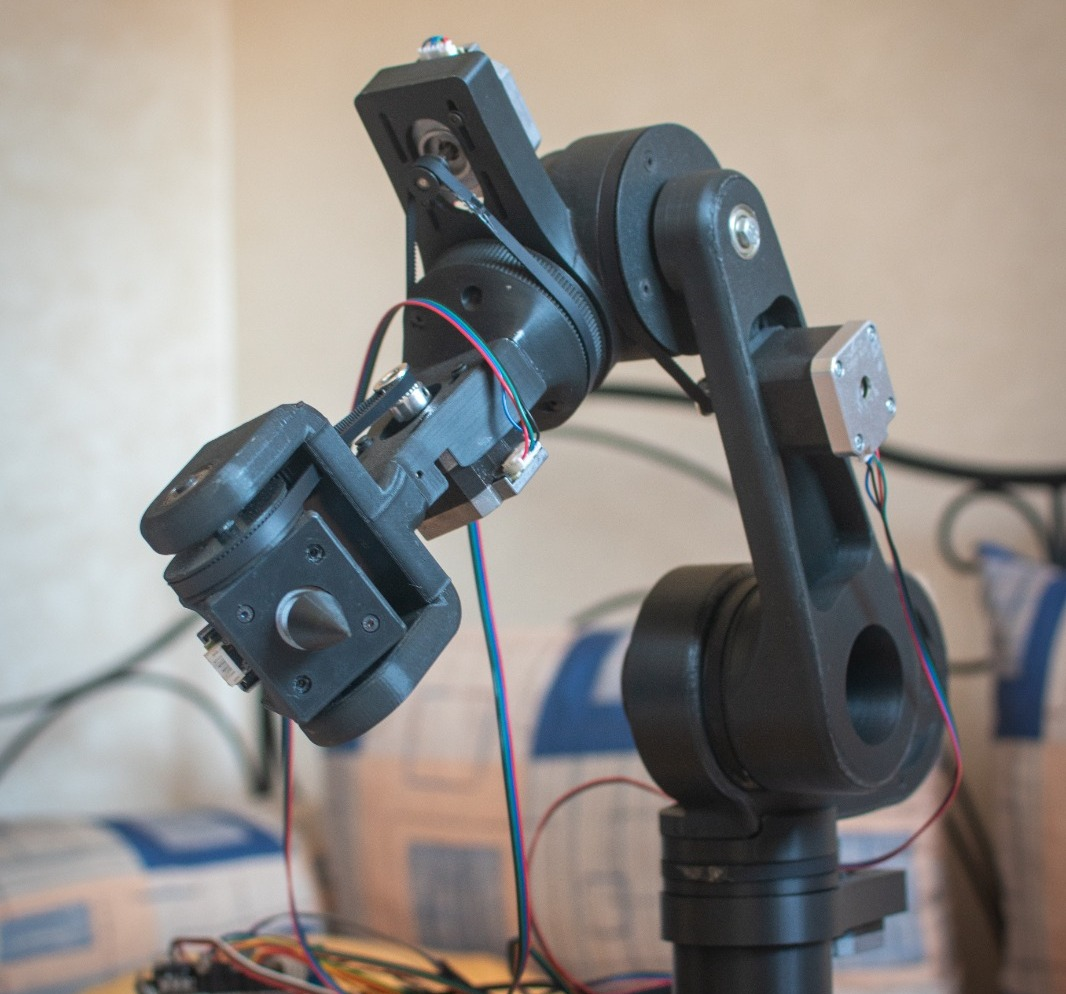
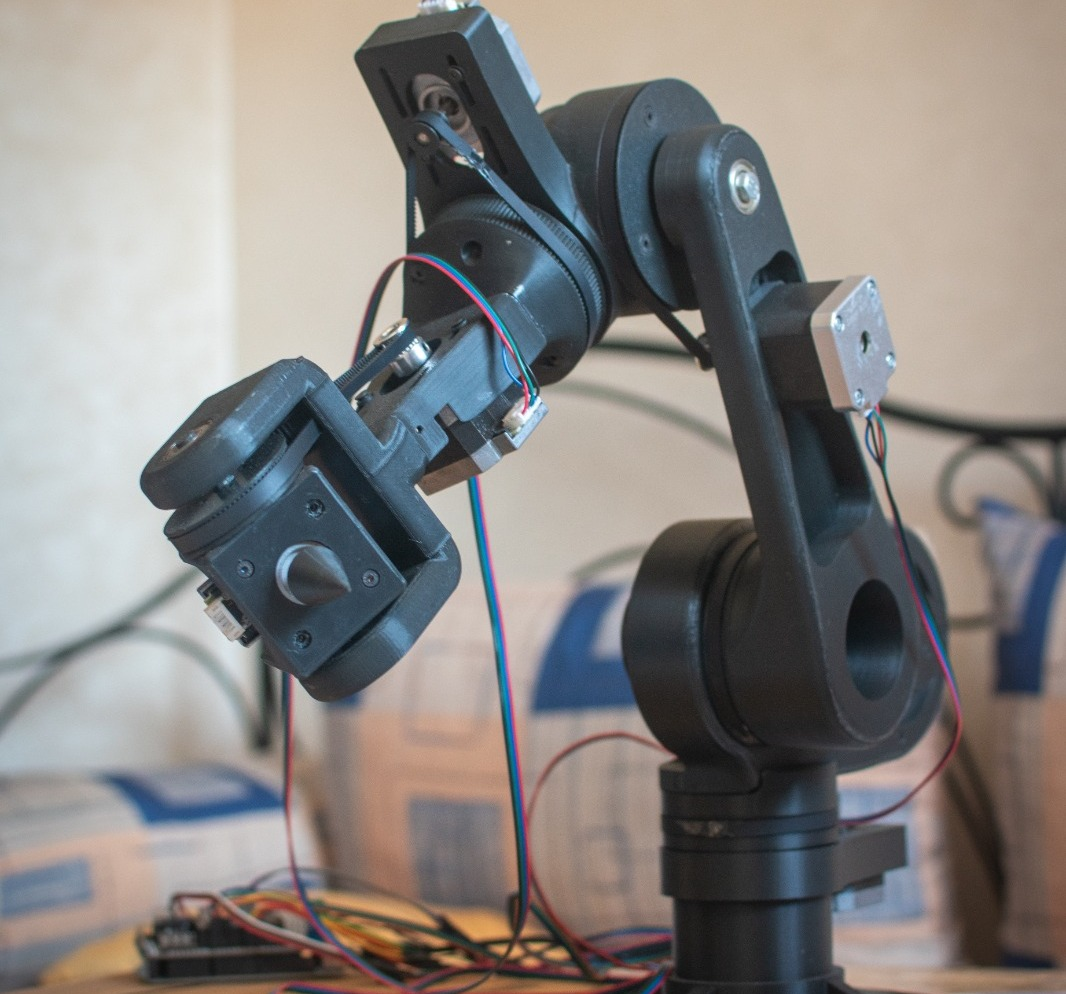
Adjust robotic arm thumbnail crop, add control-design thumbnail
- Shift the robotic arm thumbnail crop down slightly to reduce empty
  wall space above and show a bit more context below
- Crop a new thumbnail for the control design card from the uploaded
  Simscape multibody render, matching the same 1040:970 ratio as the
  other two homepage cards

diff --git a/index.html b/index.html
@@ -118,8 +118,8 @@
     </a>
 
     <a href="projects/robot-control-design.html" class="card">
-      <div class="media fit" style="aspect-ratio: 693 / 503;">
-        <img src="assets/img/robot-control-design/desired_vs_actual_path.png" alt="End-effector Cartesian trajectory — desired path vs. actual tracked path" loading="lazy">
+      <div class="media fit" style="aspect-ratio: 1040 / 970;">
+        <img src="assets/img/robot-control-design/thumbnail.png" alt="3-DOF manipulator — Simscape multibody model" loading="lazy">
       </div>
       <div class="body">
         <div class="fig-label">FIG. 04 &#8212; MSC COURSEWORK &middot; 2025&#8211;2026</div>